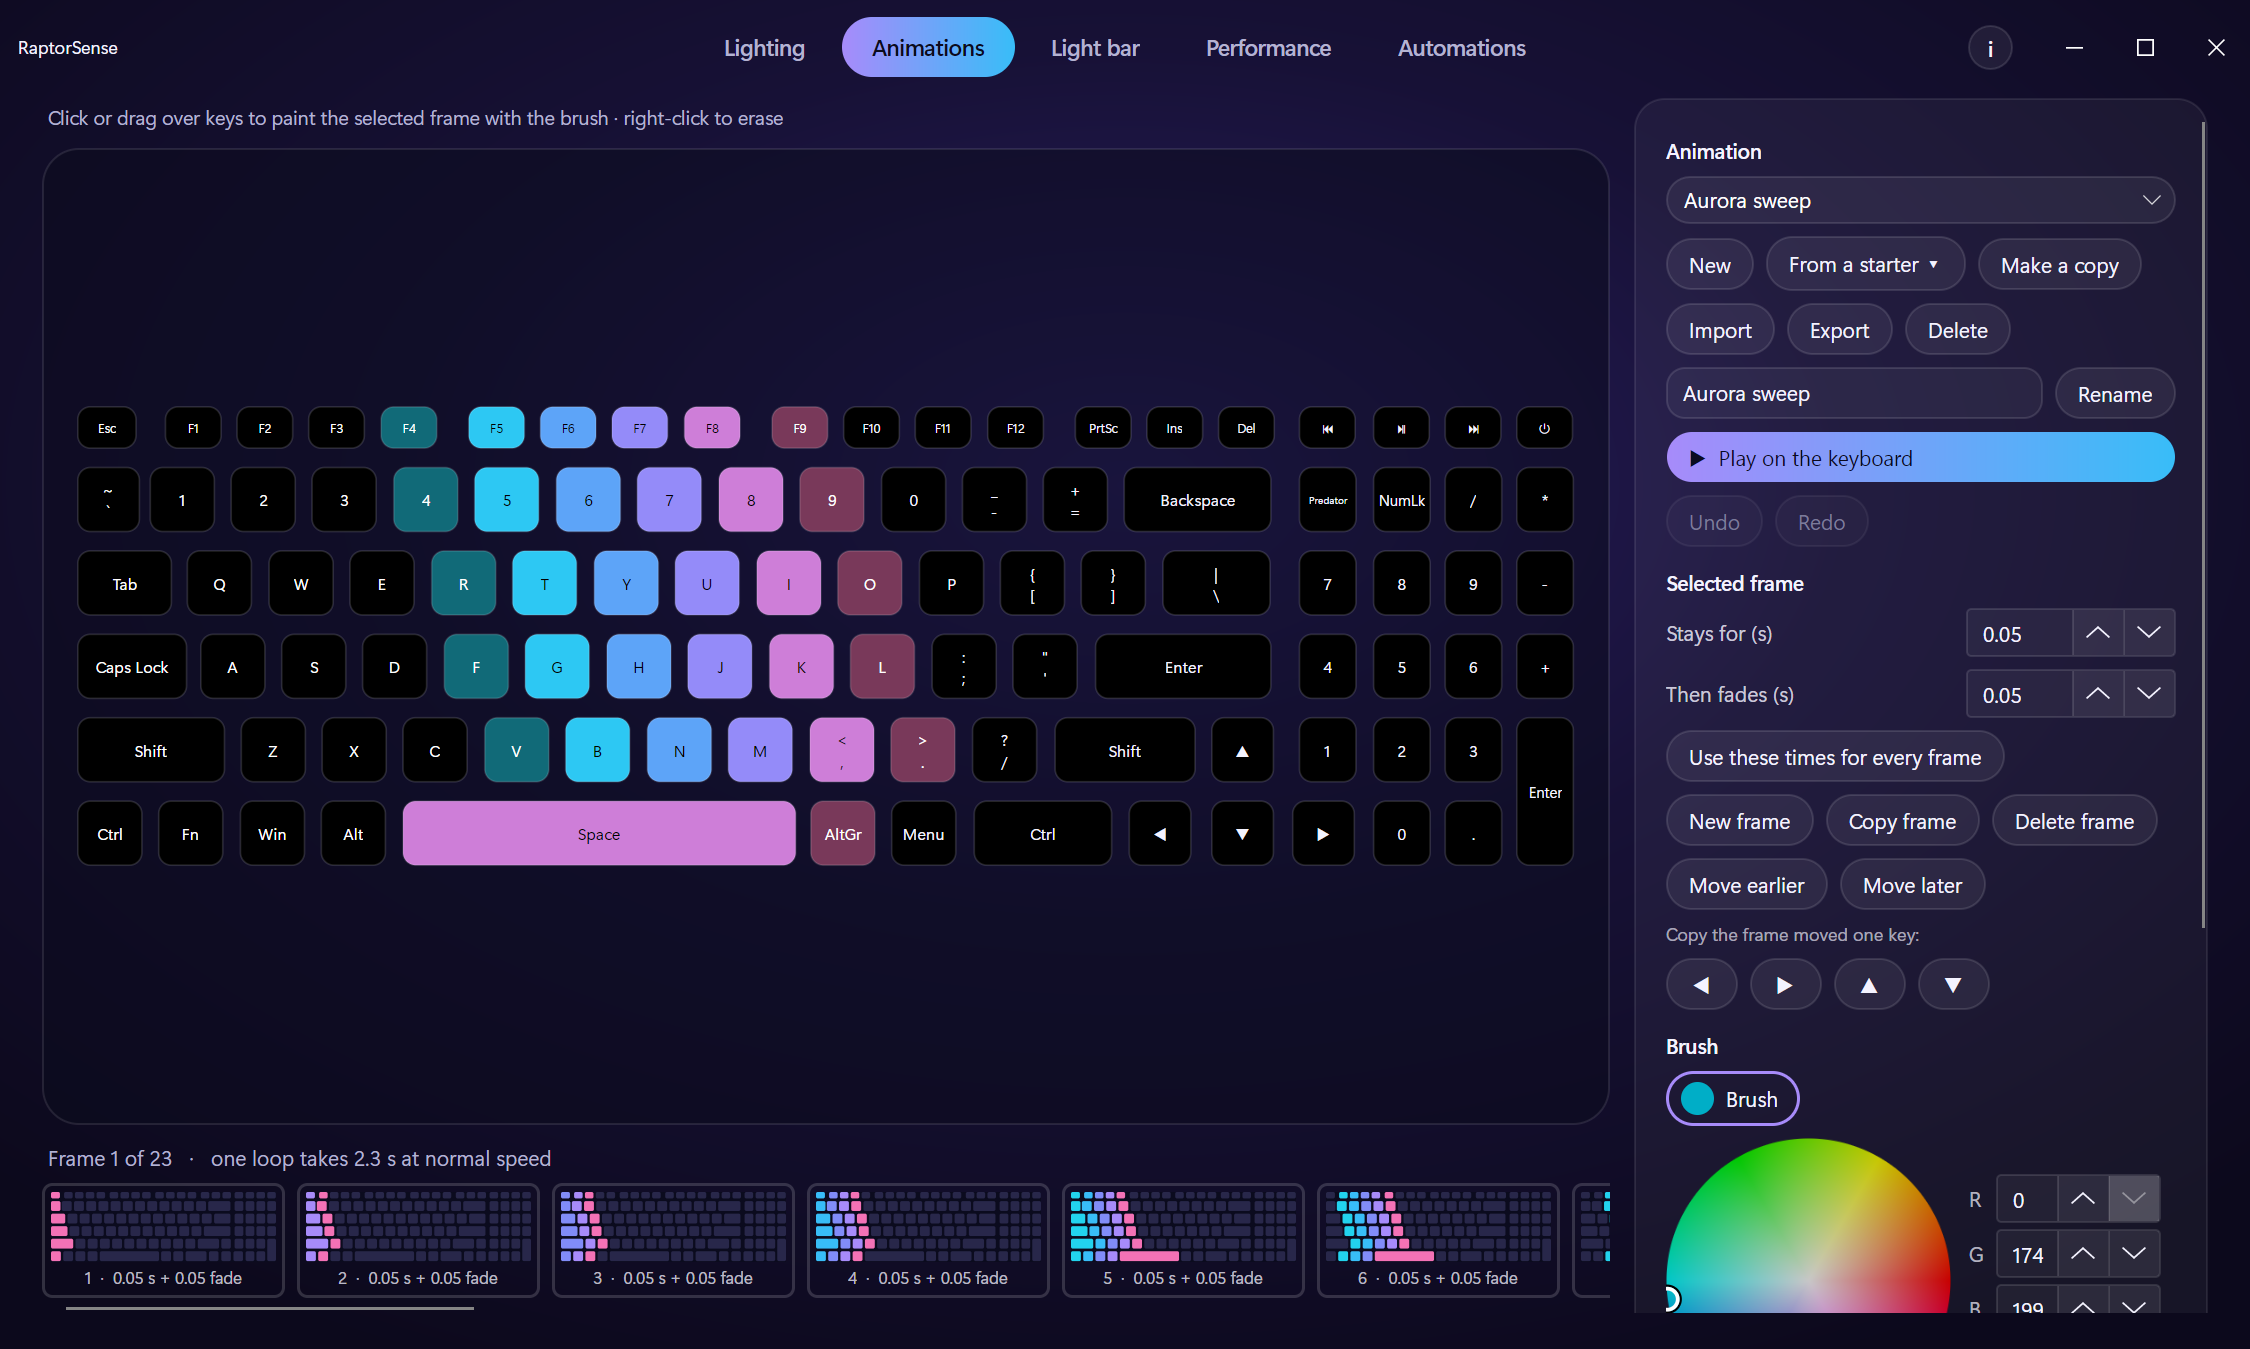
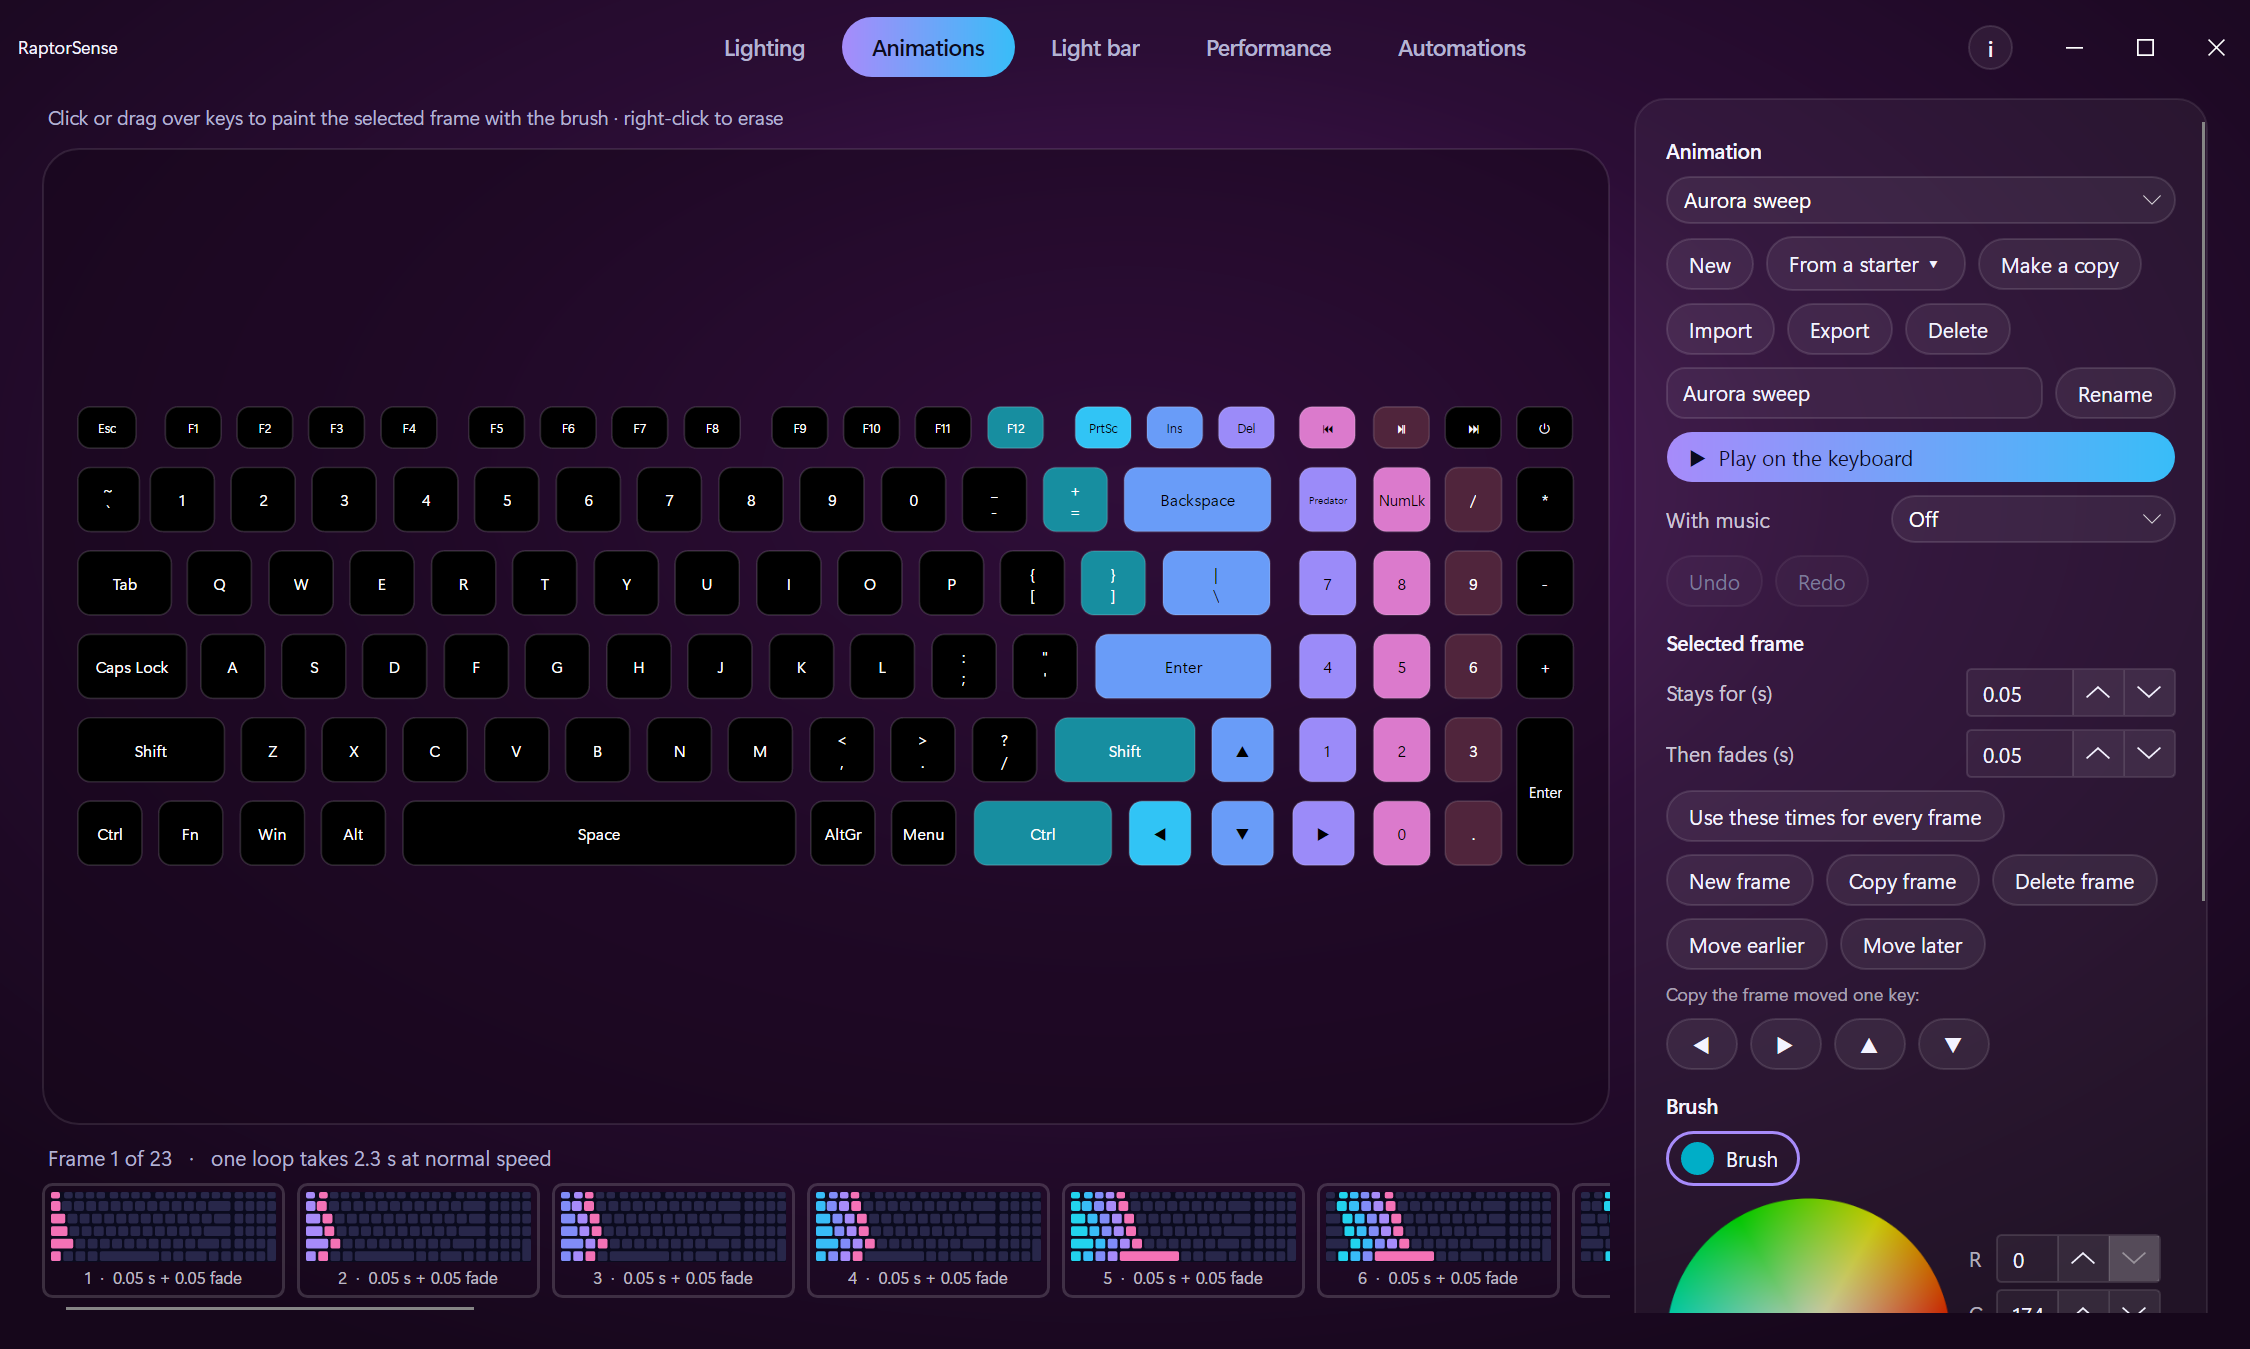
Bring the README up to 1.8.5: where things stand, new screenshots
- A "Where it stands" section near the top: what works on the Helios 16
  and on the Nitro 5 side by side, what other laptops get, and how far
  the Linux work on the `linux` branch has come.
- The intro, the notes on fan control and the command-line examples now
  cover the Nitro (`raptorsense zones`).
- Corrected: the Nitro has its own 16 zone effects and does not play the
  Helios's per-key effects on four zones, as the 1.8.5 README said.
- docs/screenshot.png and docs/animations.png retaken from the released
  1.8.5 build.

diff --git a/README.md b/README.md
@@ -2,8 +2,8 @@
 
 # RaptorSense
 
-**A free, open-source alternative to PredatorSense for Acer Predator laptops.**<br>
-Per-key RGB with your own animations, music and typing effects, plus fan and power control.
+**A free, open-source alternative to PredatorSense and NitroSense for Acer Predator and Nitro laptops.**<br>
+Keyboard lighting with your own animations, music and typing effects, plus fan and power control.
 
 [![Latest release](https://img.shields.io/github/v/release/aaronparayil/RaptorSense?label=release&color=a78bfa)](https://github.com/aaronparayil/RaptorSense/releases/latest)
 [![Downloads](https://img.shields.io/github/downloads/aaronparayil/RaptorSense/total?color=38bdf8)](https://github.com/aaronparayil/RaptorSense/releases)
@@ -11,6 +11,7 @@ Per-key RGB with your own animations, music and typing effects, plus fan and pow
 ![Runs on Windows](https://img.shields.io/badge/runs%20on-Windows-38bdf8)
 
 [**Download**](https://github.com/aaronparayil/RaptorSense/releases/latest) ·
+[Where it stands](#where-it-stands) ·
 [Will it work on my laptop?](#will-it-work-on-my-laptop) ·
 [Install](#install) ·
 [Features](#features) ·
@@ -21,13 +22,38 @@ Per-key RGB with your own animations, music and typing effects, plus fan and pow
 
 </div>
 
-> Unofficial. Not affiliated with or endorsed by Acer. "Predator" and "PredatorSense" are Acer trademarks,
-> used here only to describe compatibility.
+> Unofficial. Not affiliated with or endorsed by Acer. "Predator", "Nitro", "PredatorSense" and "NitroSense" are
+> Acer trademarks, used here only to describe compatibility.
 
 Created by [aaronparayil](https://github.com/aaronparayil). Free and open source, forever.
 
+## Where it stands
+
+The current release is **1.8.5**, for Windows. One download works on both tested laptops: the app reads the laptop's
+model when it starts and shows what works on it.
+
+| | Predator Helios 16 PH16-71 | Nitro 5 AN515-57 |
+|---|---|---|
+| Keyboard lighting | Every key on its own, 60 fps, no admin rights | Four zones, about ten changes a second; needs fan control installed |
+| Effects | 20, plus 2 music and 11 typing effects, and the keyboard's 13 built-in ones | 16 made for four zones (2 follow music, 4 react to typing), and the keyboard's 5 built-in ones |
+| Static colour, painting, your own animations | Works, key by key | Works, zone by zone: each zone shows the average of its keys |
+| Fans (Auto, Max, Custom) and temperatures | Works | Works |
+| Power modes | Works | Not offered yet: not checked on this model |
+| Rear light bar | Works | The laptop has none |
+| PREDATOR key and Fn brightness keys | Works | Not supported yet |
+
+**On other Acer laptops:** per-key lighting works only if the keyboard is one of the known ones, and fans and power
+are read-only until the model has been checked. See [Will it work on my laptop?](#will-it-work-on-my-laptop)
+
+**Linux:** in progress on the [`linux` branch](https://github.com/aaronparayil/RaptorSense/tree/linux), not in the
+download yet. There the app, the command-line tool and all the tests build and run on Linux, and each push builds a
+Linux package to try. Keyboard lighting for the Helios is written but has not driven a real keyboard yet. Music and
+typing effects, fans, power and automations are still to come on Linux.
+
 ## What you get
 
+- **Two laptops, one download.** A Helios 16 with a per-key keyboard and a Nitro 5 with a 4-zone one, each seeing its
+  own controls.
 - **Lighting that follows the real keys.** 20 animated and static effects, 2 that move to your music and 11 that react
   to typing, all drawn on a live preview of your keyboard at 60 fps. Paint single keys by hand, pick two colours or
   let it run a rainbow.
@@ -54,22 +80,22 @@ Recorded on an earlier version: the effects are the same, the window has a new l
 
 Tested on two machines so far: **Predator Helios 16 PH16-71** (BIOS V1.18, per-key keyboard `04F2:0117`) and
 **Nitro 5 AN515-57** (BIOS V1.22, 4-zone keyboard). One download works on both: the app reads the laptop's model
-when it starts and shows what works on it. Windows only for now; Linux is planned.
+when it starts and shows what works on it. Windows only for now; Linux is [in progress](#where-it-stands).
 
 - **Per-key lighting** looks for keyboards `04F2:0117`, `011A` and `0119`. If yours isn't one of these and the laptop
   isn't the Nitro below, the app says "Keyboard not found" and does nothing. A similar keyboard may have its keys
   mapped differently.
 - **Fans, power modes and the light bar** use Acer's gaming firmware interface, and RaptorSense only changes them
-  on models that have been tested: so far the PH16-71. Firmware differs between laptops, so on any other model it
-  shows temperatures and fan speeds but changes nothing, until that model has been checked. The readings may be off
-  there too.
+  on models where they have been tested: all three on the PH16-71, the fans on the AN515-57. Firmware differs between
+  laptops, so on any other model it shows temperatures and fan speeds but changes nothing, until that model has been
+  checked. The readings may be off there too.
 - **Nitro 5 AN515-57** (BIOS V1.22): its keyboard lights in four zones through the same firmware interface, and the
   same app drives it. It picks the laptop by its model: the Lighting tab says **Currently on Nitro** (or **Currently on
-  Helios**) and draws that keyboard. On the Nitro the Lighting tab's effects play on the four zones, each showing the
-  average of its keys, a few times a second; a **Keyboard zones** tab sets a colour per zone or one of the keyboard's
-  own effects. It also gets 16 effects made for four zones, among them colour drift, scanner, lava lamp, ocean swell,
-  music zones and typing speed. All of this goes through the helper, so on the Nitro lighting needs fan control
-  installed. Fan control (Auto, Max, Custom, with the same safety rules) was checked on it too; power modes haven't
+  Helios**) and draws that keyboard. The Nitro has its own list of 16 effects made for four zones, among them colour
+  drift, scanner, lava lamp, ocean swell, music zones and typing speed; the Helios's per-key effects are not offered
+  there. Static colour, painting and your own animations work on both, with each zone showing the average of its
+  keys, up to about ten times a second. A **Keyboard zones** tab sets a colour per zone or one of the keyboard's own
+  effects. All of this goes through the helper, so on the Nitro lighting needs fan control installed. Fan control (Auto, Max, Custom, with the same safety rules) was checked on it too; power modes haven't
   been, so they aren't shown there. The Nitro has no light bar, so there is no Light bar tab.
 
 RaptorSense comes with no warranty (see the [licence](LICENSE)). If you try it on another model, please
@@ -86,7 +112,8 @@ The download isn't code-signed, so Windows may show "Windows protected your PC".
 If you'd rather not trust a download, [build it yourself](#build-from-source).
 
 **For fan and power control**, open the **Performance** tab, press **Install fan control** under Fans and accept
-the administrator prompt. (Double-clicking `Install fan control.cmd` does the same.) Lighting works without this.
+the administrator prompt. (Double-clicking `Install fan control.cmd` does the same.) On the Helios, lighting works
+without this. On the Nitro the keyboard is lit through it, so install it there first.
 See [Fans and power modes](#fans-and-power-modes) for what it installs.
 
 **To update:** quit RaptorSense from the tray, then extract the new zip over your old folder. Your profiles,
@@ -125,7 +152,7 @@ changed the helper too.
 | Battery: charge cycles and health, from Windows' battery driver | Works |
 | Automations: when an app is open, on battery or plugged in, while sound is playing, after some minutes untouched, or while the screen is off, switch the lighting profile, power mode and fans, then put them back | Works; power mode and fans need fan control installed. The screen-off rule has not been tried on a real screen yet |
 | PREDATOR key opens the window; Fn+F11 / Fn+F12 change the brightness | Works |
-| Linux | Planned |
+| Linux | In progress on the [`linux` branch](https://github.com/aaronparayil/RaptorSense/tree/linux): it builds, starts and passes its tests there. Keyboard lighting is written but not yet tried on a real keyboard |
 
 ## Lighting
 
@@ -223,17 +250,18 @@ Rules are saved in `%APPDATA%\RaptorSense\automations.json`.
 
 Windows lets only administrators change fans, power profiles and the rear light bar, so these go through a small
 helper service, `RaptorSense.Helper`. The app itself runs without admin rights and talks to the helper over a local pipe.
-The helper accepts only a fixed set of commands (read sensors, set a power profile, set the fan mode, set the light bar),
-never arbitrary firmware calls.
+The helper accepts only a fixed set of commands (read sensors, set a power profile, set the fan mode, set the light bar,
+set the Nitro's keyboard zones), never arbitrary firmware calls.
 
 The service runs as SYSTEM and starts with Windows. Installing it copies it to `C:\Program Files\RaptorSense\Helper`,
 where only administrators can change it. Install again to update it to a newer version.
 
 Safety rules, enforced by the helper (tests in `tests/RaptorSense.Tests`):
 
-- It changes fans, power profiles and the light bar only on tested models (`LaptopModels.Verified` in
-  `src/RaptorSense.Core/Thermal/LaptopModels.cs`, matched against the model Windows reports). On any other laptop
-  it only reads, and every change is refused before it reaches the firmware.
+- It changes fans, power profiles and the light bar only on tested models (the lists in
+  `src/RaptorSense.Core/Thermal/LaptopModels.cs`, matched against the model Windows reports): all of them on the
+  PH16-71; the fans and the keyboard zones, but not power profiles, on the AN515-57. On any other laptop it only
+  reads, and every change is refused before it reaches the firmware.
 - Custom fan speeds are at least 25 %.
 - At 90 °C in custom mode the fans go to Max until everything is below 80 °C.
 - If the sensors can't be read in custom mode, the fans go to Max.
@@ -261,10 +289,16 @@ raptorsense lightbar FF0000
 raptorsense lightbar FF0000 00FF00 0000FF --brightness 60
 raptorsense lightbar wave --color 00AEC7
 raptorsense lightbar off
+raptorsense zones FF0000
+raptorsense zones FF0000 00FF00 0000FF FFFFFF
+raptorsense zones wave --direction right
+raptorsense zones off
 ```
 
-The `thermal`, `power`, `fans` and `lightbar` commands need fan control installed. `lightbar` takes one colour for
-the whole bar or three (left, centre, right), or an animation: breathing, neon, rainbow, wave, ripple or scanner.
+The `thermal`, `power`, `fans`, `lightbar` and `zones` commands need fan control installed. `lightbar` takes one
+colour for the whole bar or three (left, centre, right), or an animation: breathing, neon, rainbow, wave, ripple or
+scanner. `zones` is for the Nitro's keyboard: one colour, or four from left to right, or one of the keyboard's own
+effects (breathing, neon, wave, shifting or zoom).
 
 ## Privacy
 
